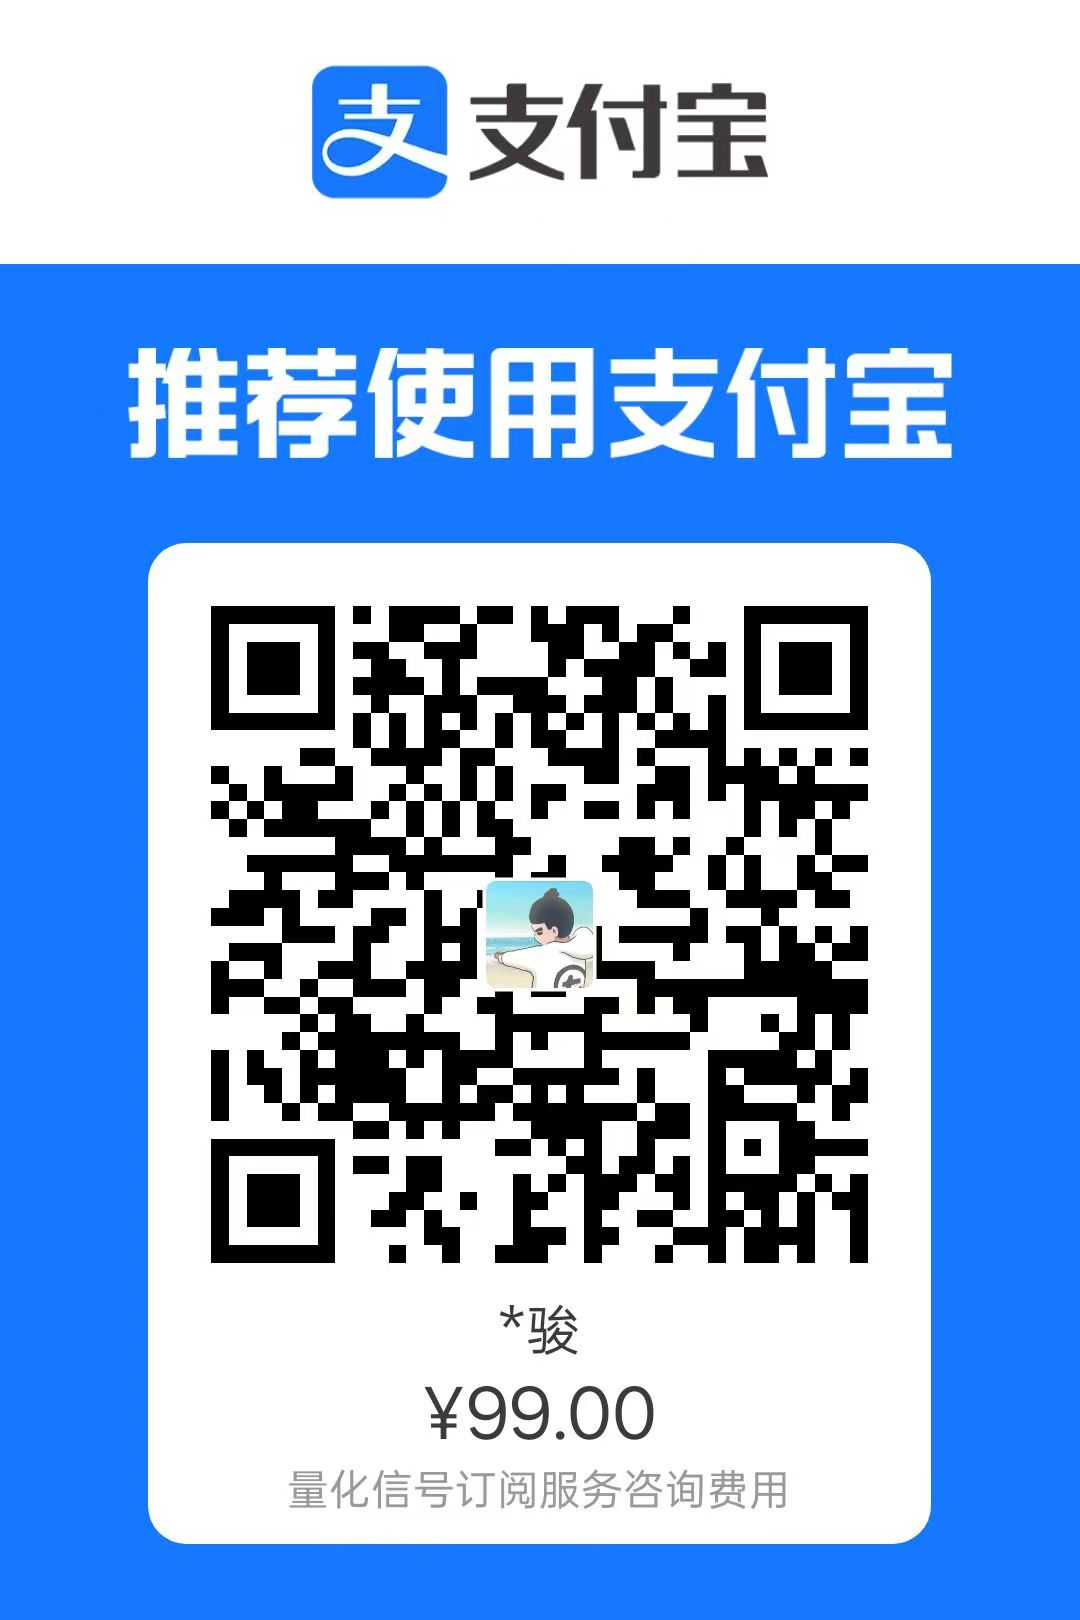
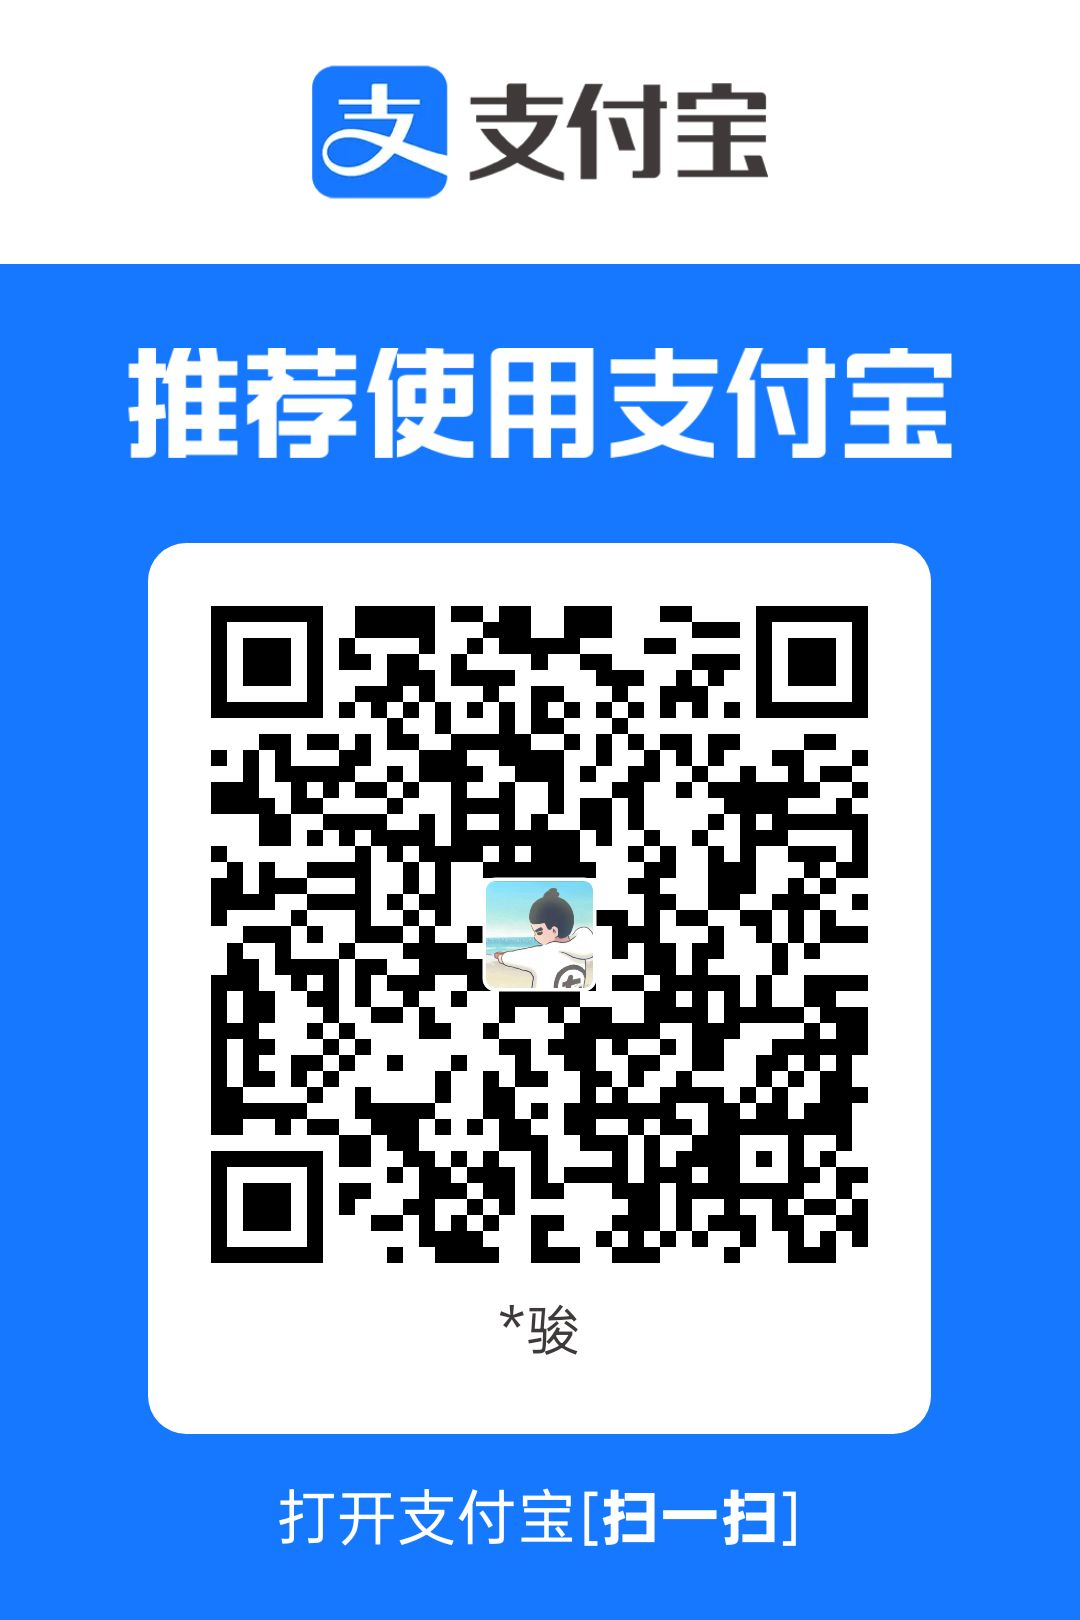
Add files via upload

Changed region(s): [[0.1833, 0.3704, 0.825, 0.8025], [0.1222, 0.8333, 0.8861, 0.9568]]

diff --git a/app_update.py b/app_update.py
@@ -1219,7 +1219,7 @@ def render_support_page():
         <div class="info-card-text">
             <ul style="margin:8px 0; padding-left:16px;">
                 <li>微信：扫描下方二维码联系</li>
-                <li>Email：research@eigenflow.io</li>
+                <li>Email：research.eigenflow@gmail.com</li>
             </ul>
         </div>
     </div>
@@ -1229,25 +1229,16 @@ def render_support_page():
     col_qr1, col_qr2 = st.columns(2)
 
     with col_qr1:
-        st.markdown('<div class="qr-area">', unsafe_allow_html=True)
-        st.markdown("**💬 微信**")
-        try:
-            st.image("wechat_qr.png", width=140)
-        except:
-            st.info("添加 wechat_qr.png")
-        st.markdown('<div class="qr-label">扫码联系</div>', unsafe_allow_html=True)
-        st.markdown('</div>', unsafe_allow_html=True)
+
+        st.markdown("### 💬 微信咨询")
+        st.image("wechat_qr.png", width=180)
+        st.caption("扫码咨询详情")
 
     with col_qr2:
-        st.markdown('<div class="qr-area">', unsafe_allow_html=True)
-        st.markdown("**💳 支付宝**")
-        try:
-            st.image("alipay_qr.png", width=140)
-        except:
-            st.info("添加 alipay_qr.png")
-        st.markdown('<div class="qr-label">扫码支付</div>', unsafe_allow_html=True)
-        st.markdown('</div>', unsafe_allow_html=True)
-
+        st.markdown("### 💳 支付宝付款")
+        st.image("alipay_qr.png", width=180)
+        st.caption("付款备注：邮箱或微信号")
+        st.caption("付款后联系开通，获取Access Key解锁模型输出")
     st.markdown("---")
     
     # ========== 法务与语言威慑 ==========
